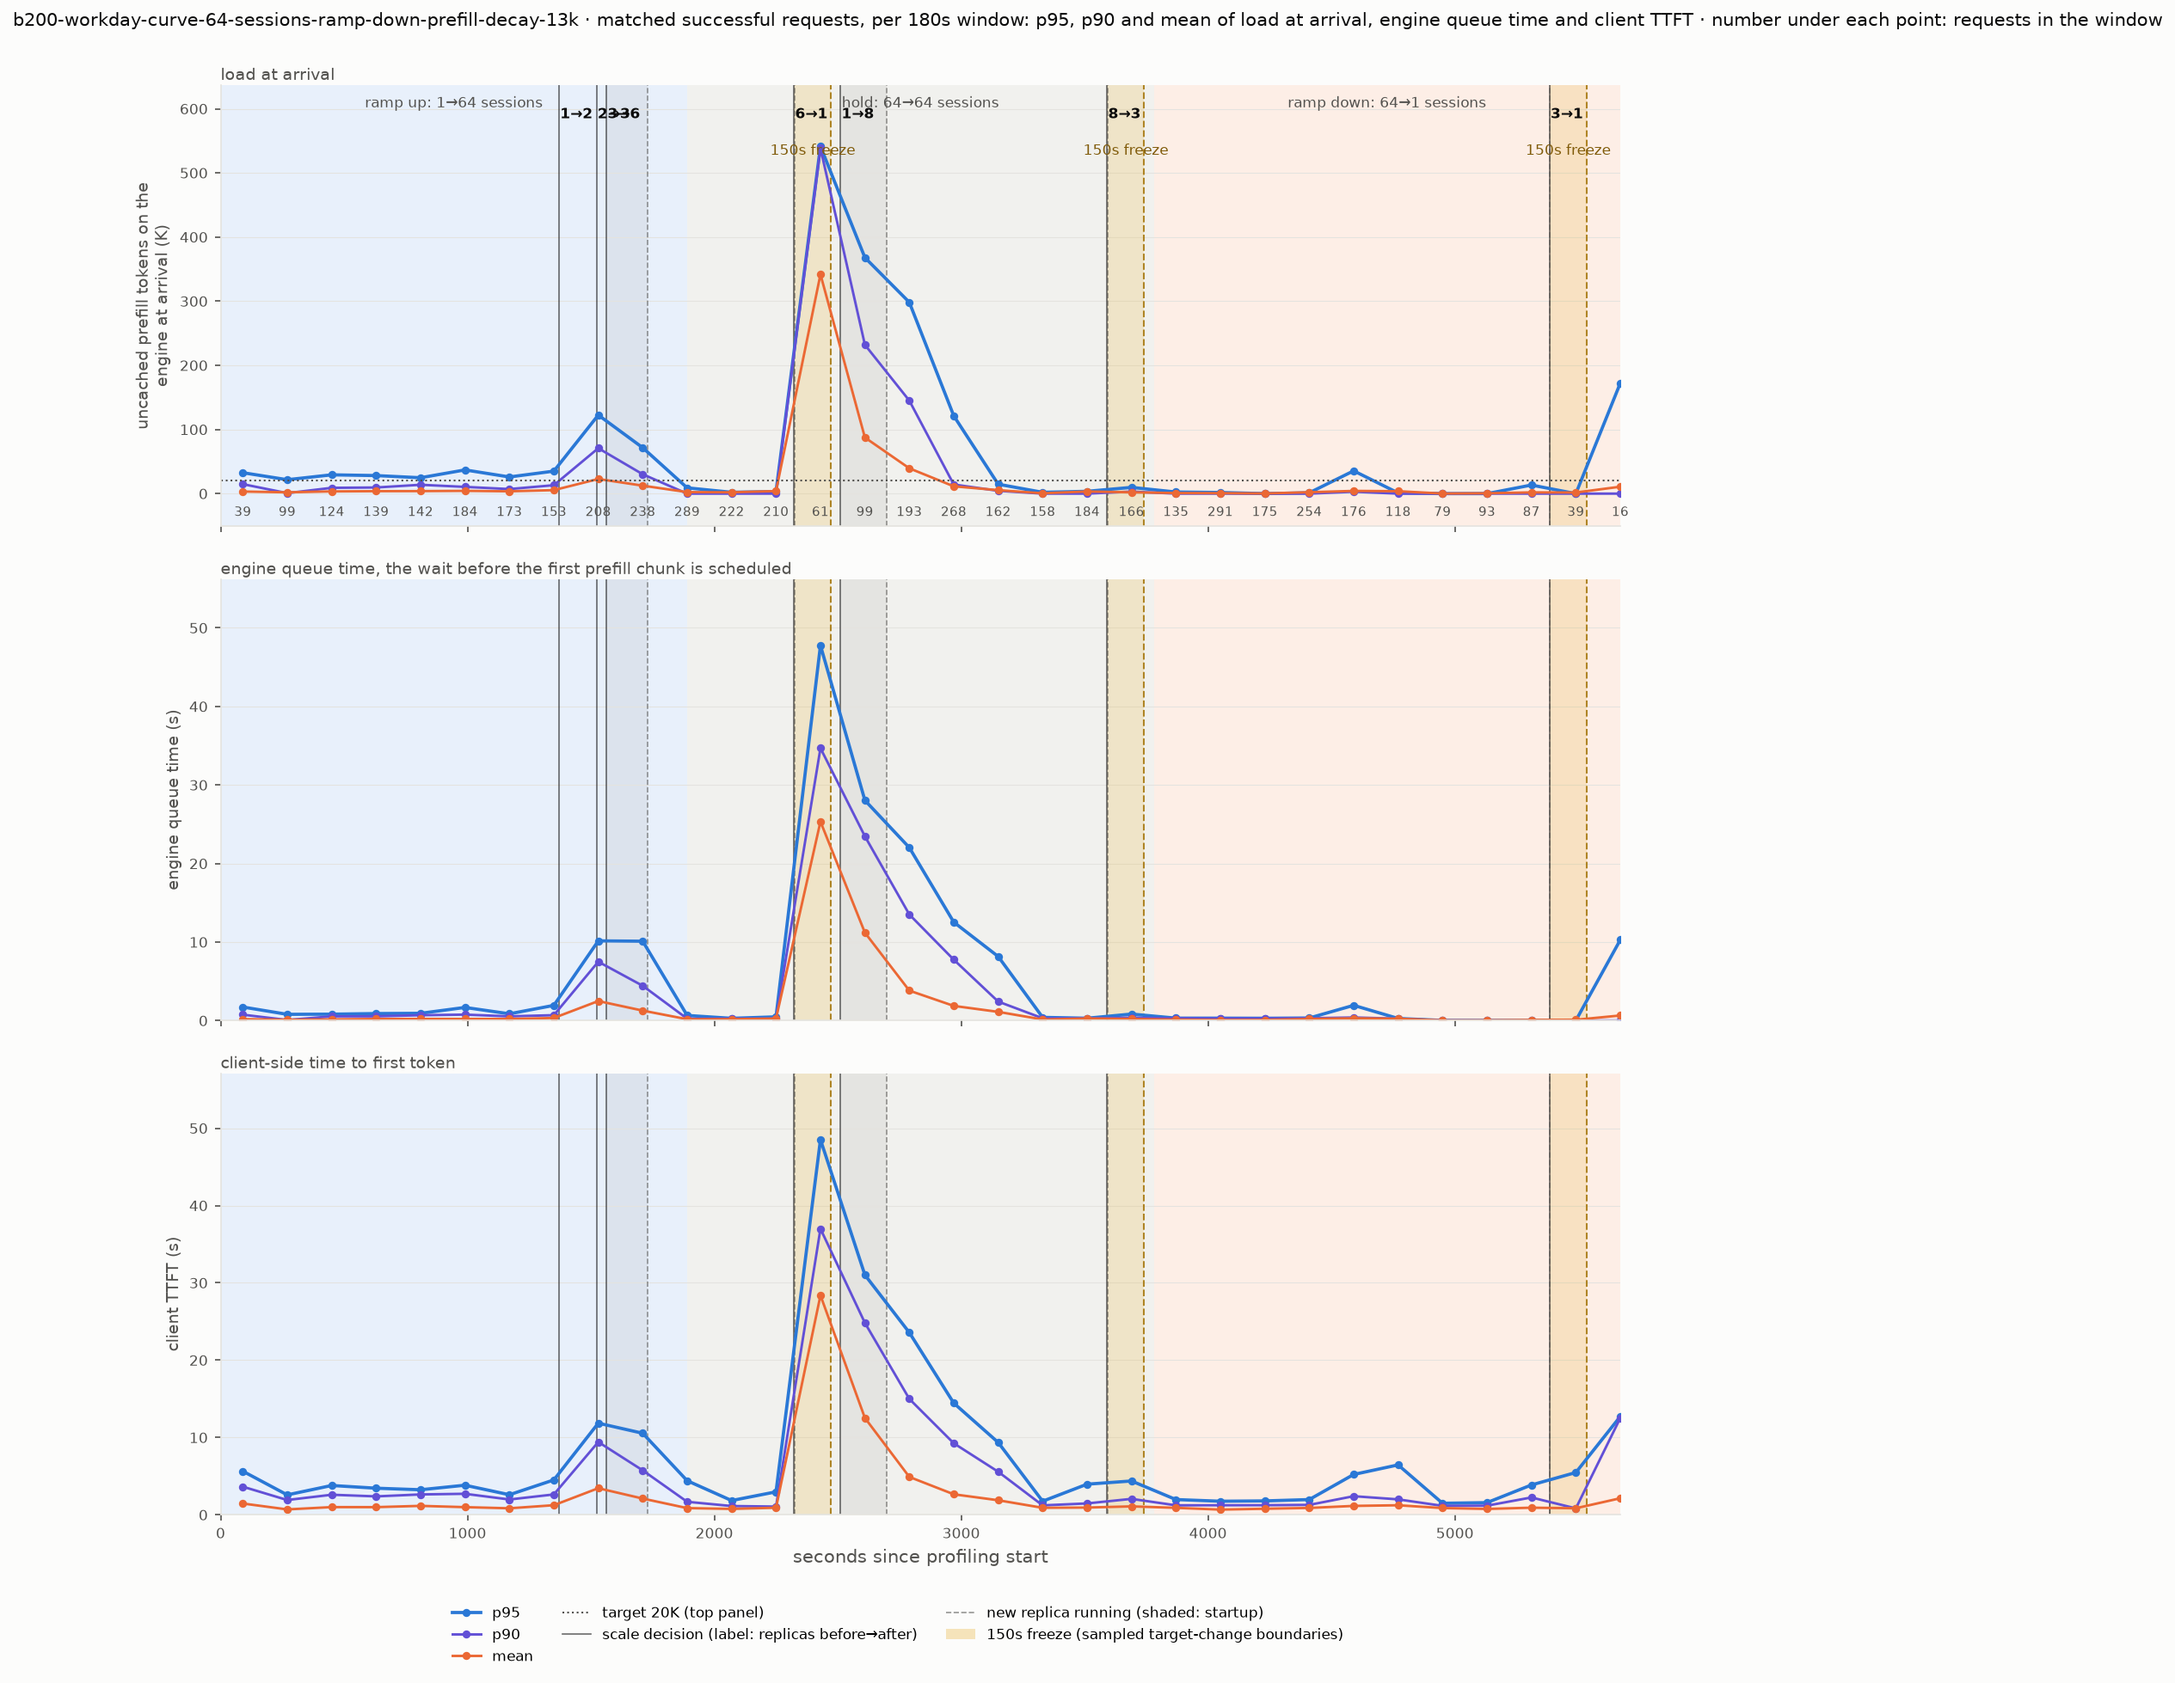
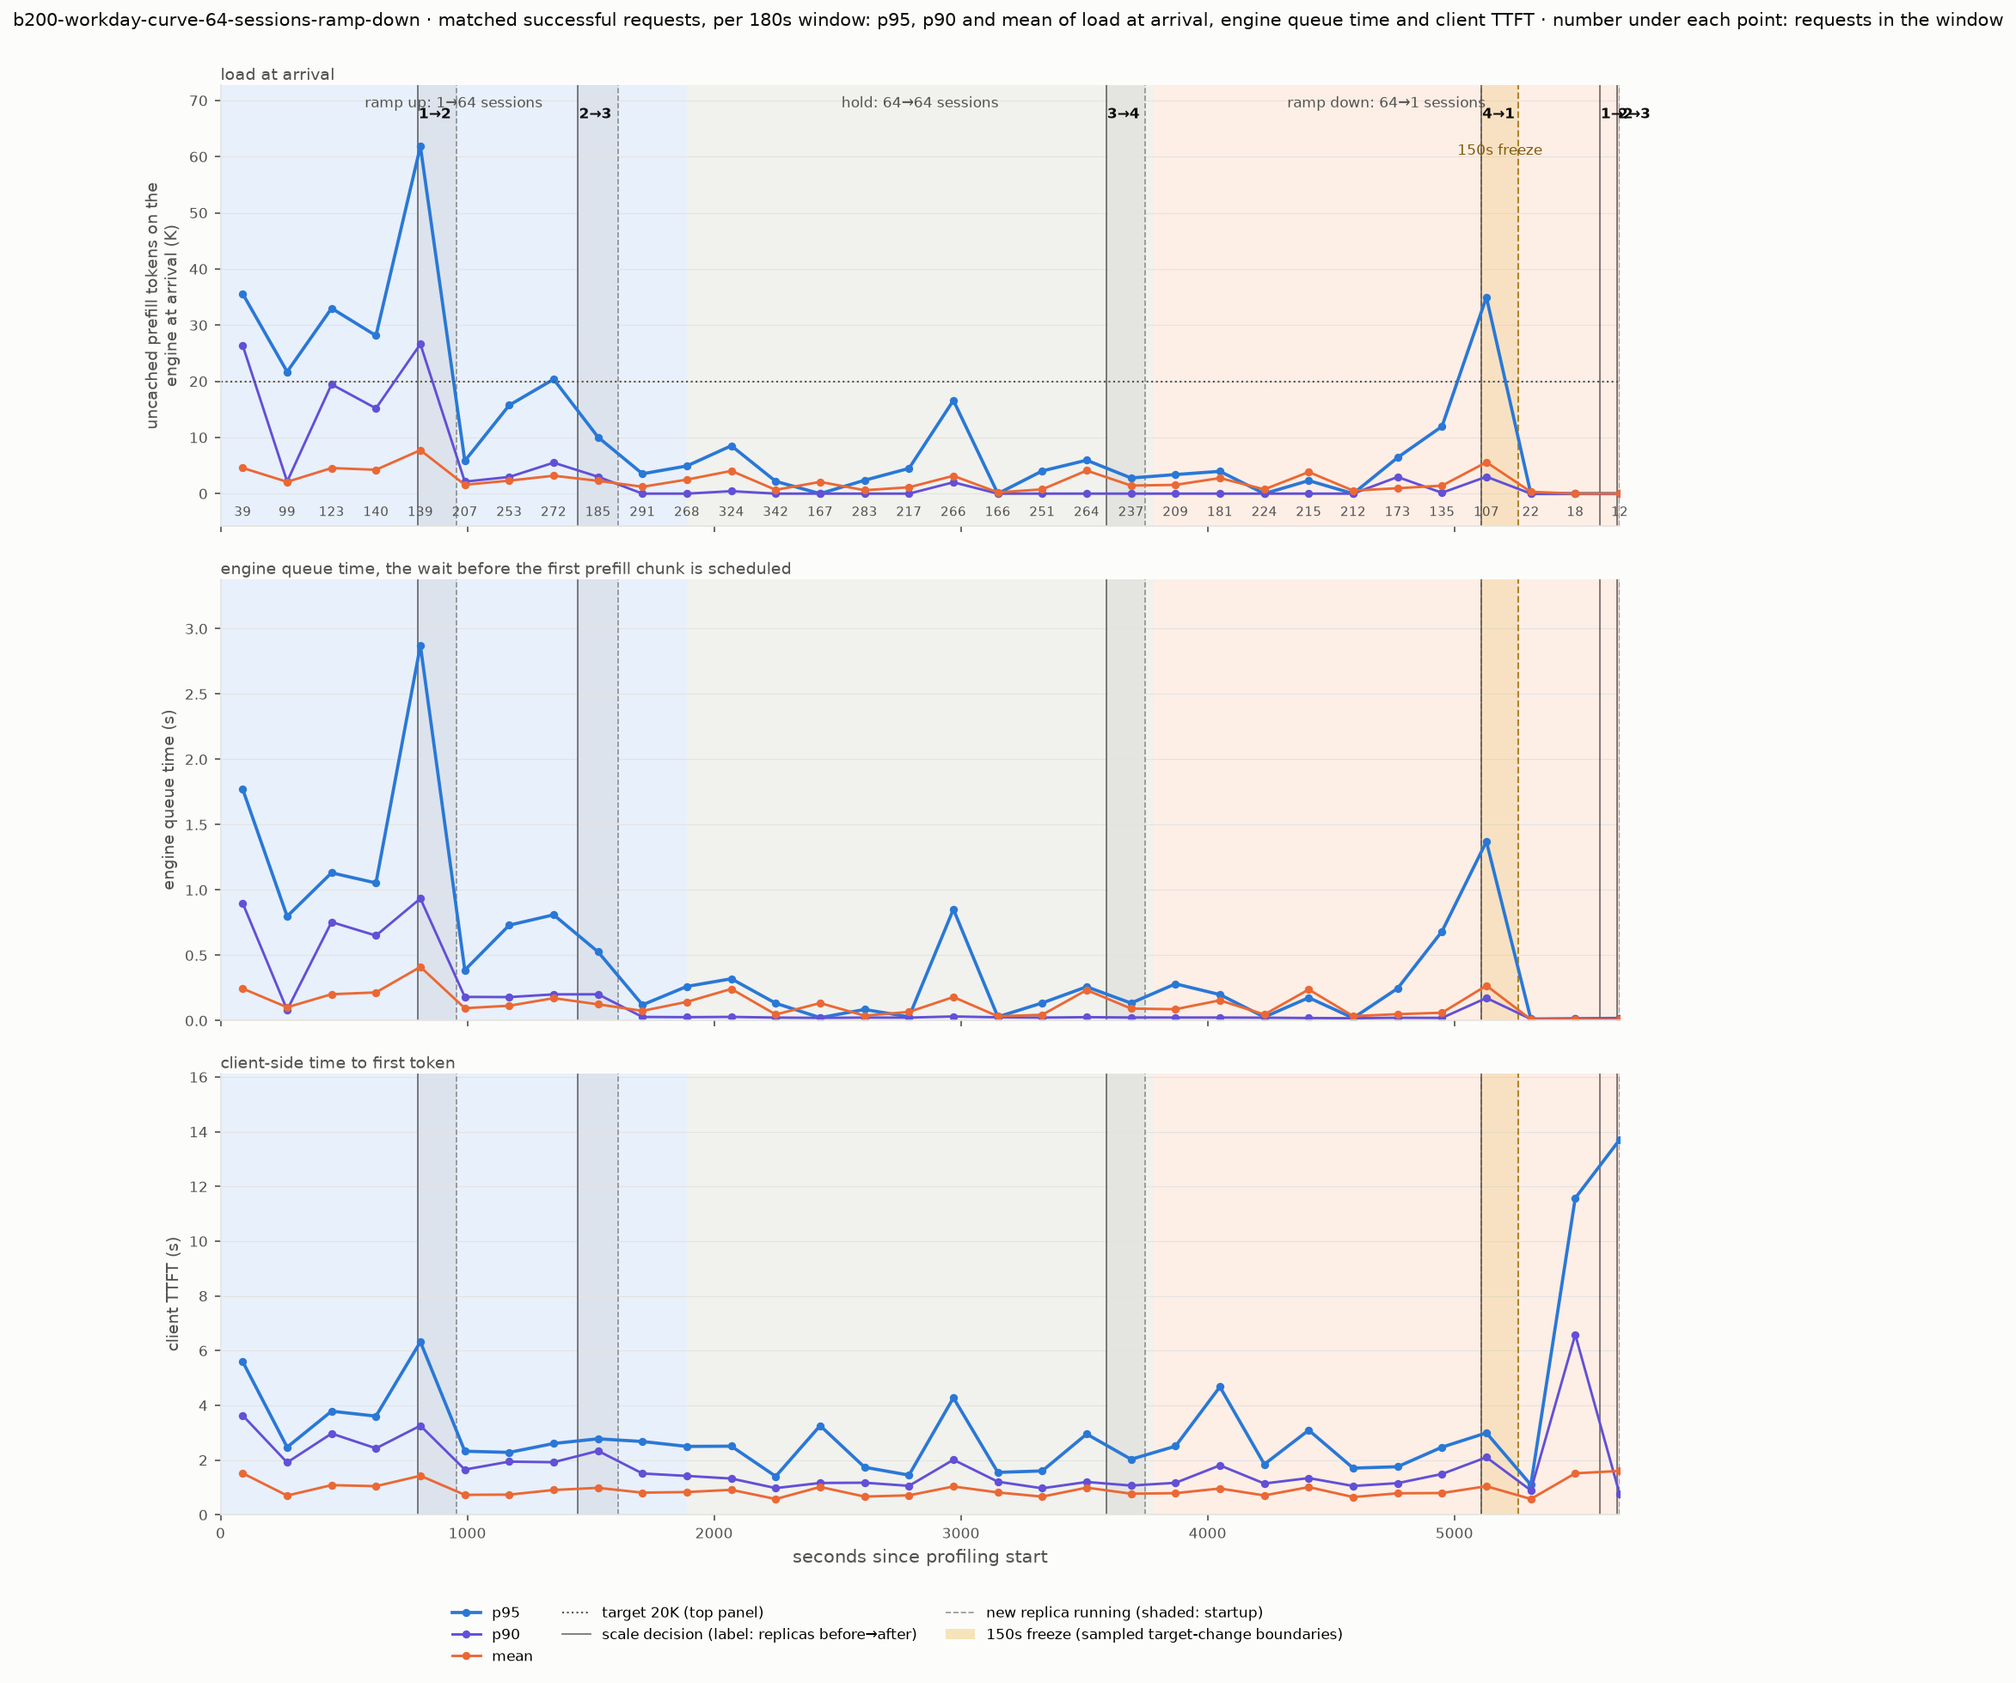
Use the plain token-policy run for the README examples; note decay is unsupported
The example scorecard and plots came from a run that used the router prefill
decay factor, which the pinned Ray branch does not have. Replace them with
the 64-session token run of 2026-11-16 (20K target, 150s freeze) and its
comparison against the default-policy run on the same curve, and say in the
config reference that the decay factor is not supported yet.

diff --git a/README.md b/README.md
@@ -104,7 +104,8 @@ the same sessions start at the same times in every run of a curve.
 ## What you get from a run
 
 Three things: a scorecard and two plots. The examples below are from a
-64-session token-policy run on 8x B200 (2026-11-17).
+64-session token-policy run on 8x B200 (2026-11-16), with a 20K-token target
+per replica and a 150-second freeze after each scale-down.
 
 ### 1. The scorecard
 
@@ -112,13 +113,13 @@ Printed at the end of the run and saved as
 `analysis/autoscaling_evaluation.json`.
 
 ```text
-=== Autoscaling evaluation: policy token, steady state 0-5670s, 5082 requests (106 failed): SLO FAIL ===
-TTFT: p95 9261ms vs SLO 5000ms: FAIL · 91% of requests within · mean 1939ms, within SLO 90% of the time (565s over)
-ITL : p95 70ms vs SLO 50ms: FAIL · 87% of requests within · mean 29ms, within SLO 88% of the time (680s over)
-TTFT by prompt: warm p95 8025ms (4400 requests) · cold (<50% cached) p95 14521ms (576 requests)
-GPU time: 5.78 GPU-h during load · 18613 replica-s running (mean 3.3, max 8), 2205 replica-s starting
-Scaling: 5 up / 3 down · first up at 1371s · upscale lag mean 172s, max 188s
-TTFT p95 9261ms = own prefill 1809ms + waiting 7452ms · with instant replica startup 6567ms (346 requests started during a startup)
+=== Autoscaling evaluation: policy token, steady state 0-5670s, 6067 requests (26 failed): SLO PASS ===
+TTFT: p95 2603ms vs SLO 5000ms: PASS · 98% of requests within · mean 849ms, within SLO 99% of the time (45s over)
+ITL : p95 36ms vs SLO 50ms: PASS · 99% of requests within · mean 20ms, within SLO 100% of the time (5s over)
+TTFT by prompt: warm p95 1827ms (5376 requests) · cold (<50% cached) p95 7365ms (665 requests)
+GPU time: 4.24 GPU-h during load · 14667 replica-s running (mean 2.6, max 4), 608 replica-s starting
+Scaling: 5 up / 1 down · first up at 799s · upscale lag mean 159s, max 161s
+TTFT p95 2603ms = own prefill 954ms + waiting 1649ms · with instant replica startup 2431ms (500 requests started during a startup)
 ```
 
 | Line | How to read it |
@@ -153,8 +154,10 @@ decision happen when it did?*
   replica count.
 - **Background tint**: ramp up (blue), hold (grey), ramp down (peach).
 
-In this example the policy scaled 6→1 during the hold, the backlog spiked to
-500K tokens, and it scaled straight back to 8: the kind of behaviour this
+In this example the policy added replicas at 799s, 1449s and 3589s as the
+signal stayed above target, then went from 4 replicas to 1 in a single step
+during the ramp down (5109s). The backlog spiked to 60K tokens at once, and
+within eight minutes it had scaled back up to 3: the kind of behaviour this
 plot is for finding.
 
 ### 3. Arrival statistics plot
@@ -218,7 +221,7 @@ prints one scorecard row per run:
 
 ```text
 run                          policy  SLO  TTFT pN  ITL pN TTFT req ITL req TTFT mean ITL mean failed  GPU-h mean max up/down 1st up   lag
-20261117T002452Z-...-token    token FAIL   9261ms    70ms      91%     87%    1939ms     29ms    106   5.78  3.3   8     5/3  1371s  172s
+20261116T111800Z-...-token    token PASS   2603ms    36ms      98%     99%     849ms     20ms     26   4.24  2.6   4     5/1   799s  159s
 20261117T225619Z-...-default default FAIL   4454ms    60ms      96%     91%    1155ms     31ms     25   2.59  1.6   2     1/1  1353s  161s
 ```
 
@@ -232,6 +235,10 @@ Solid vertical lines mark a new replica serving and dashed lines a
 scale-down decision, each in its run's colour and labelled with the replica
 count after it. `--cols` picks which of `mean,p90,p95` to draw; without it
 you get all three side by side.
+
+Here the token policy met both targets using 4.24 GPU-hours and up to 4
+replicas; the default policy at `target_ongoing_requests: 32` used 2.59
+GPU-hours and 2 replicas and missed the ITL target.
 
 Only compare runs of the same workload and seed; then the same sessions
 arrive at the same times in both, and differences come from the policy.
@@ -336,6 +343,13 @@ analysis:              # what the run is scored against
 
 Serve applies the delays and replica bounds to both. `target_ongoing_requests`
 must be set even for `token`, which ignores it.
+
+> **Not supported yet: router prefill decay.** The decay factor
+> (`routing.request_router_kwargs.prefill_decay_tokens_per_second`, which
+> drains the router's reported prefill tokens at a fixed rate) is not in the
+> pinned Ray branch, so a config that sets it will not behave as intended.
+> It exists only as an unfinished draft against the previous policy design
+> (celinaky/ray#9) and needs porting to the current stack first.
 
 ### `benchmark`
 
